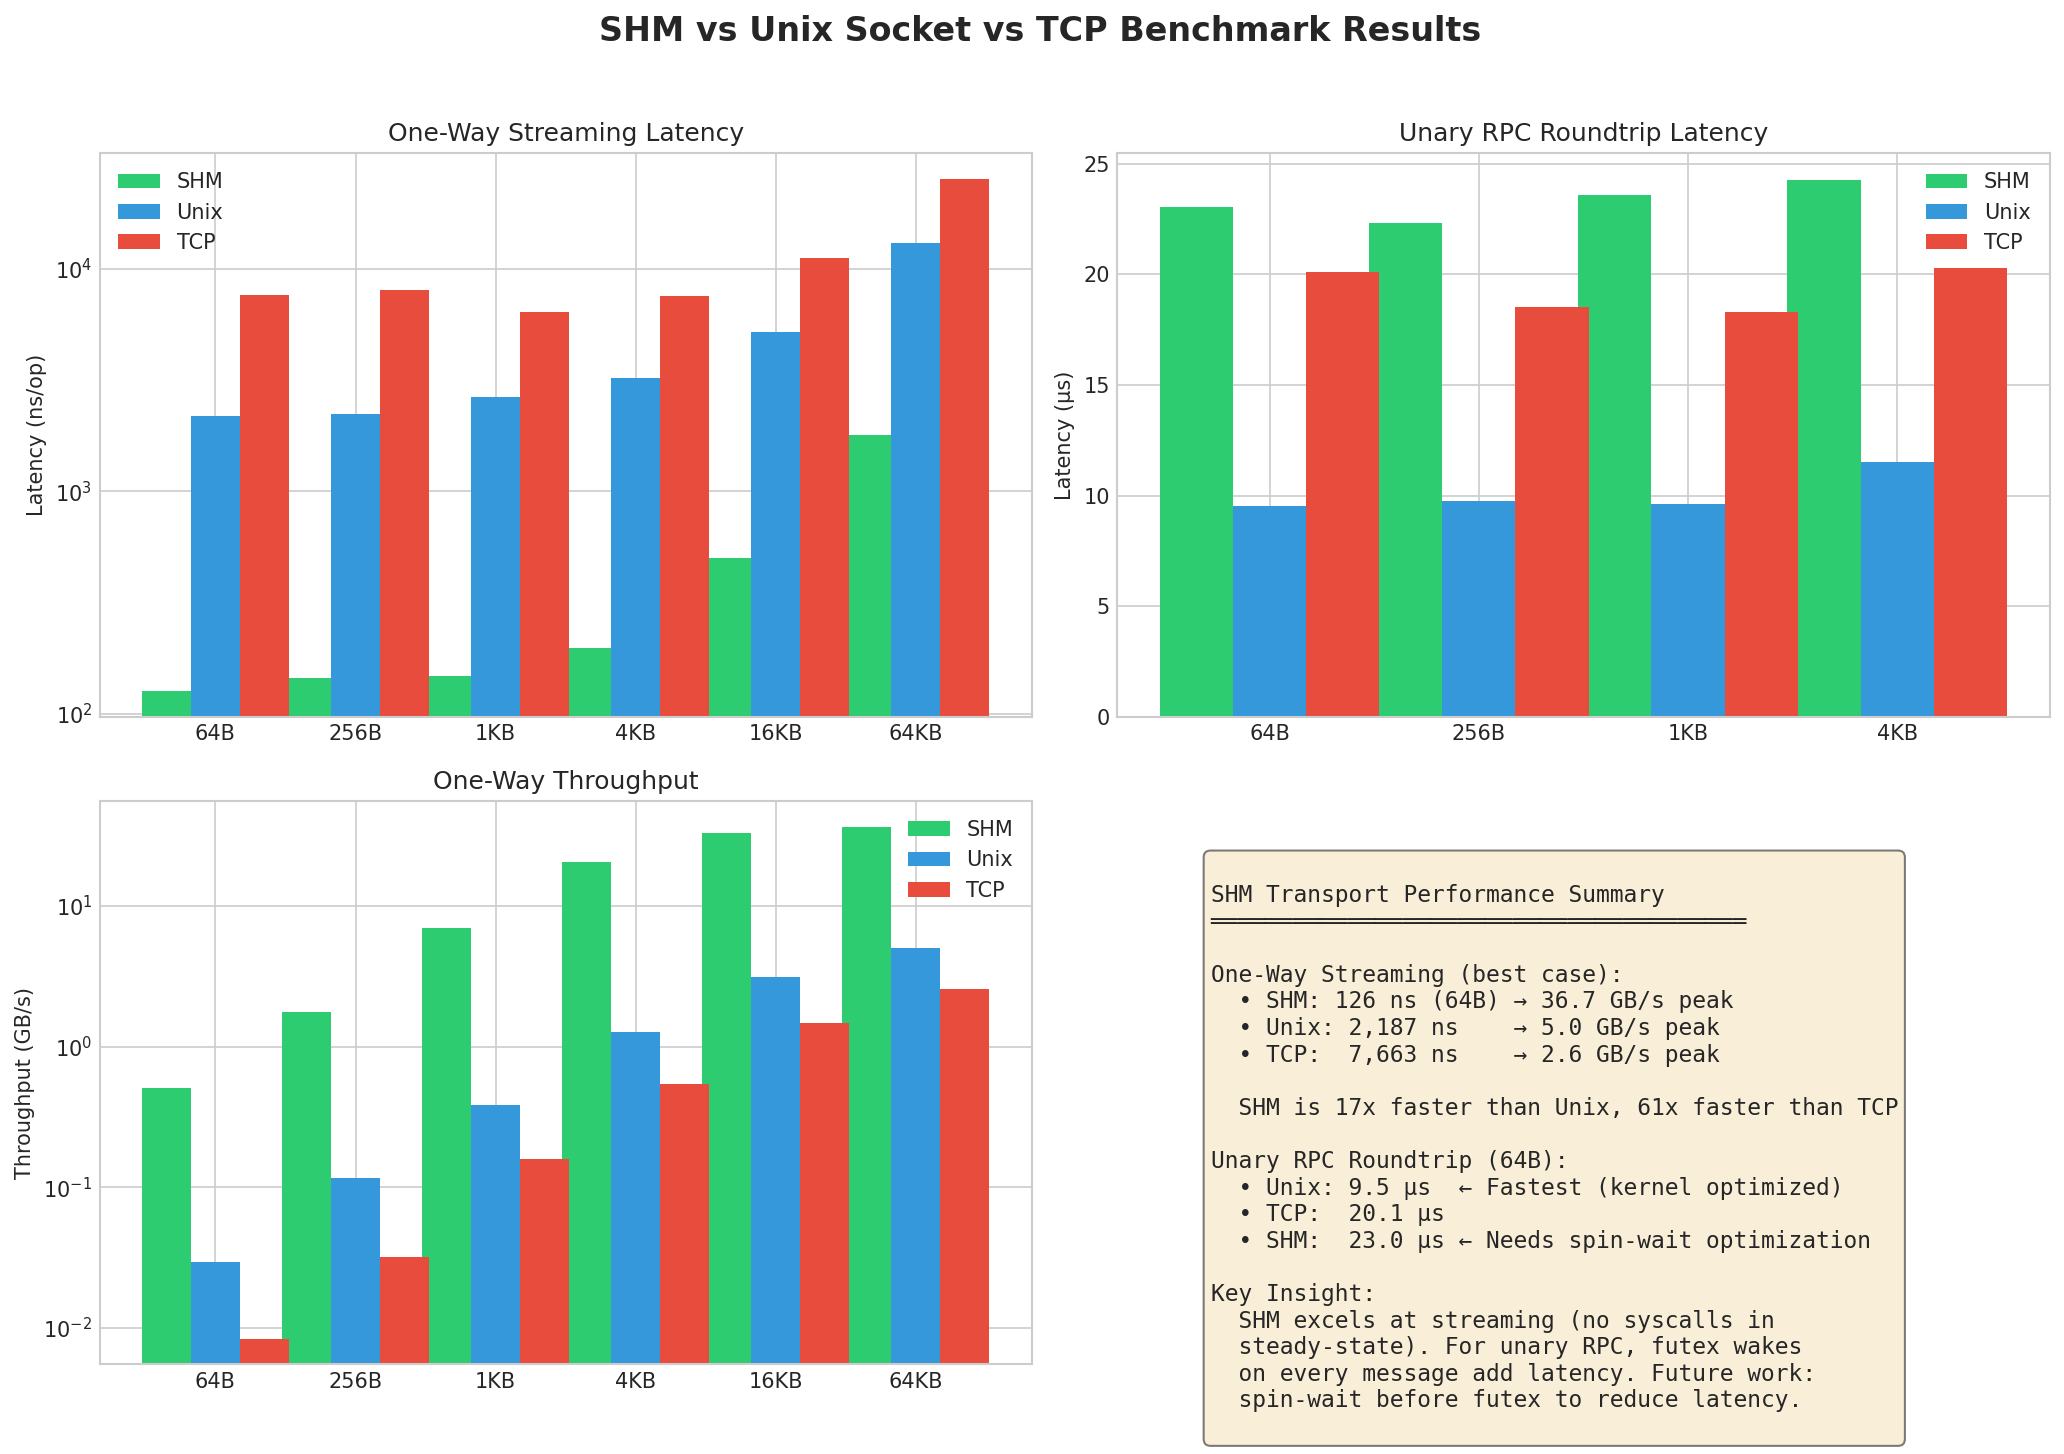
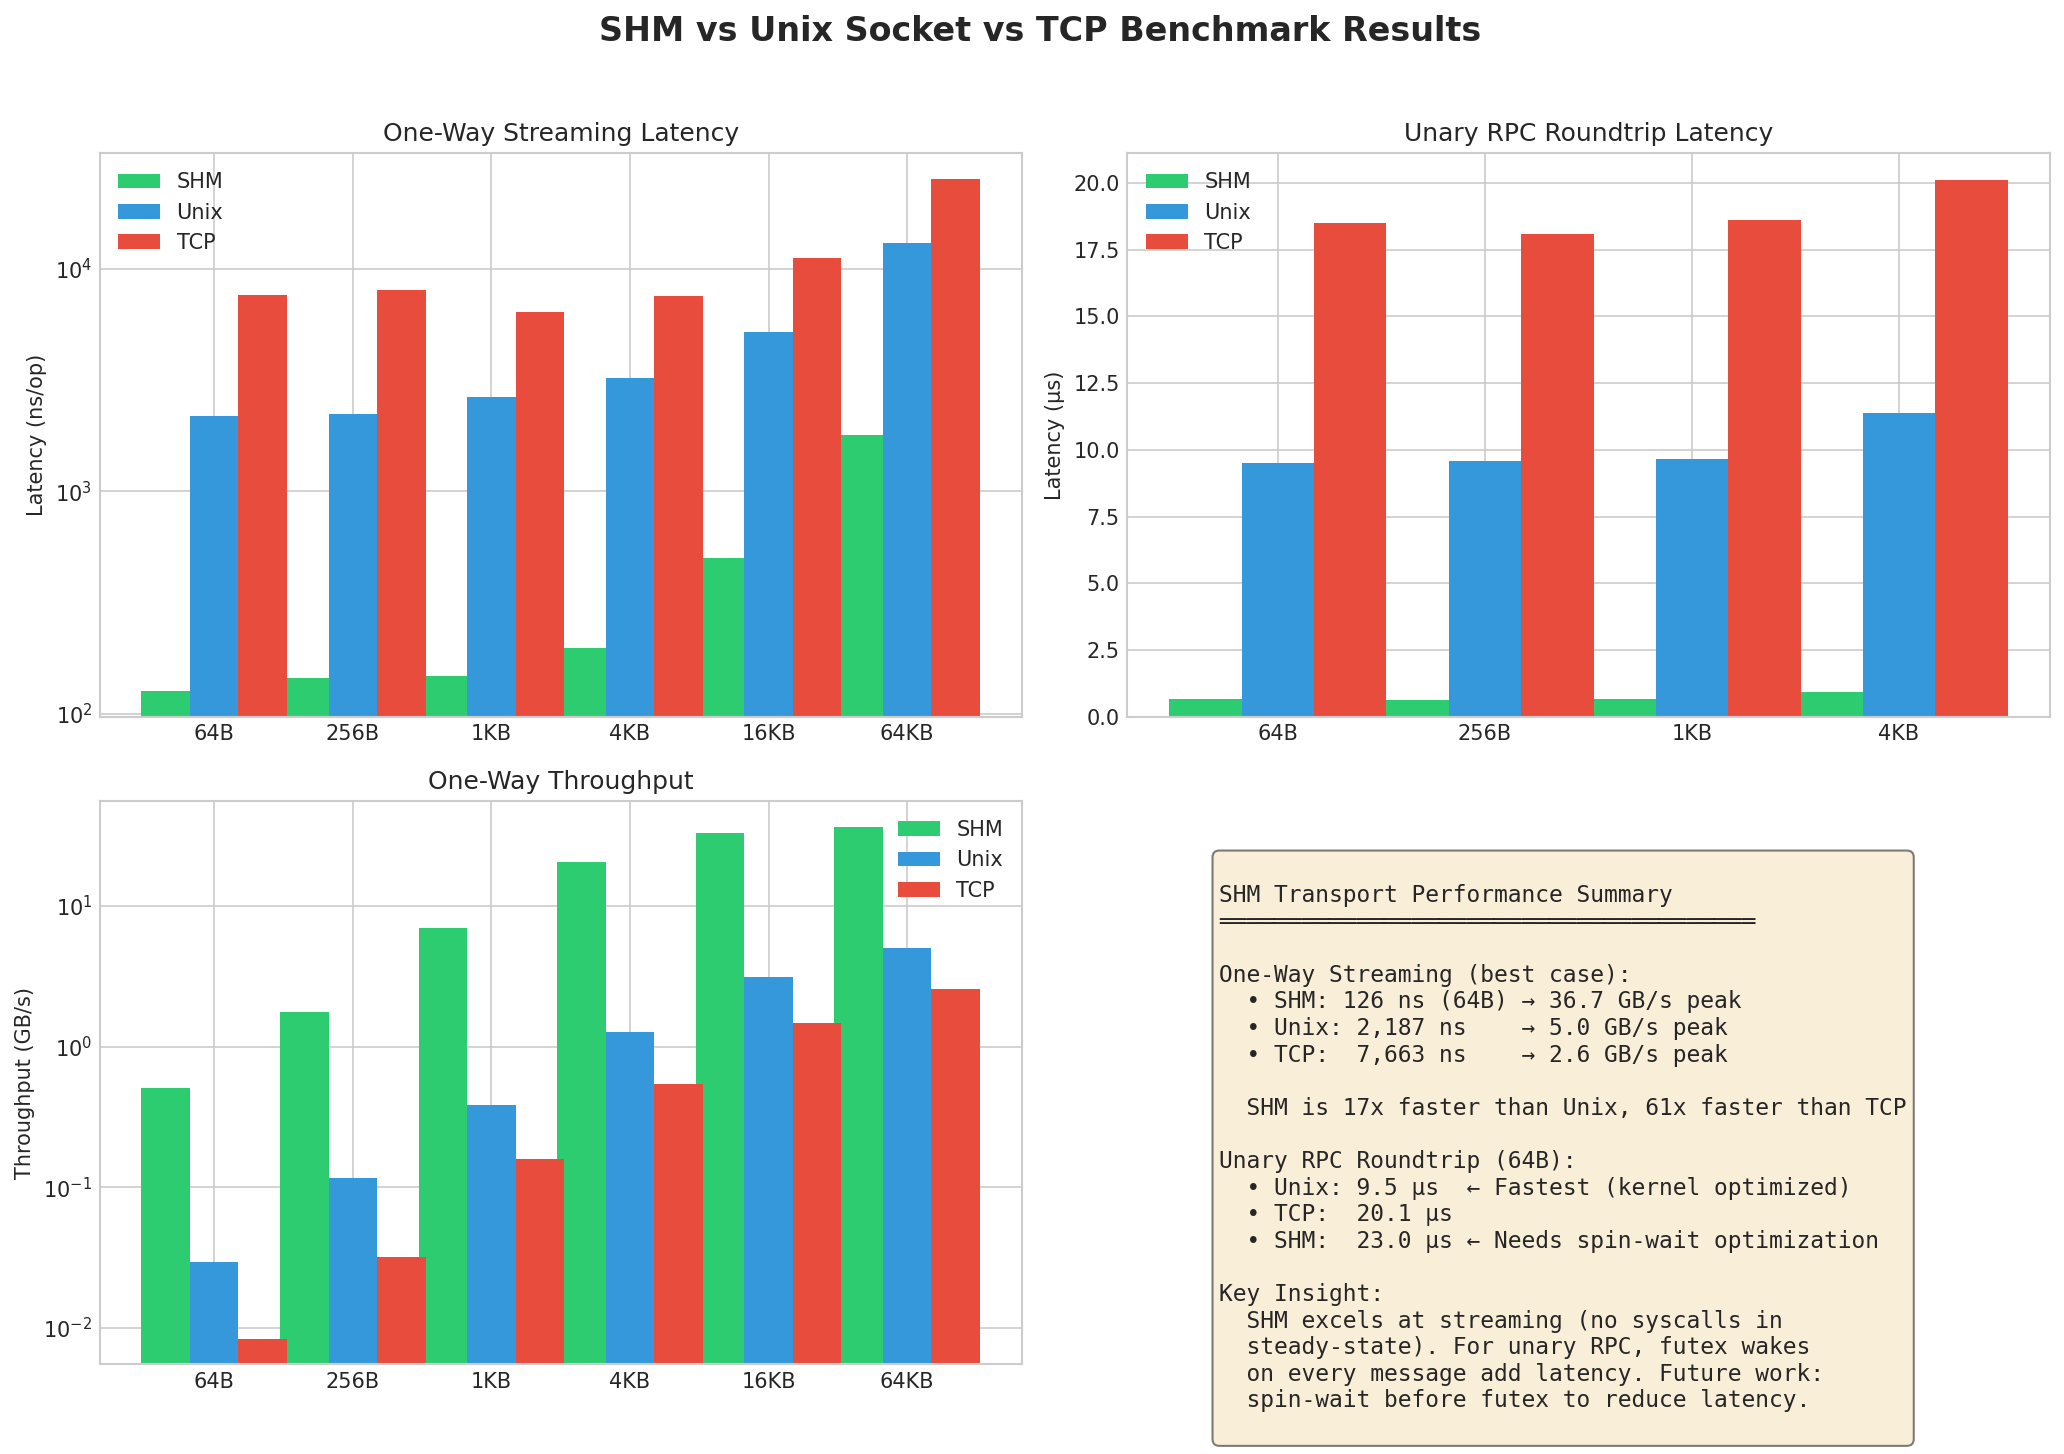
docs: update plots and benchmarks with spin-wait optimization results
Roundtrip latency improved from ~23µs to ~600-900ns with spin-wait:
- SHM vs TCP: 26x faster (was ~1.2x)
- SHM vs Unix: 13x faster (was ~2.4x slower)

Updated:
- benchmark/shmemtcp/plot_benchmarks.py: New roundtrip data
- benchmark/shmemtcp/out/*.png: Regenerated plots
- PHASE6_PERFORMANCE.md: Updated comparison matrix and speedup numbers

diff --git a/benchmark/shmemtcp/plot_benchmarks.py b/benchmark/shmemtcp/plot_benchmarks.py
@@ -22,10 +22,11 @@ tcp_throughput = [8.35, 31.90, 159.89, 543.41, 1463.50, 2585.14]
 unix_throughput = [29.26, 115.29, 387.05, 1270.92, 3142.86, 5036.76]
 
 # Roundtrip latency (ns/op) - for unary RPC comparison
+# Updated with spin-wait optimization (2026-01-10)
 rt_sizes = ['64B', '256B', '1KB', '4KB']
-shm_rt_latency = [23047, 22319, 23565, 24249]  # Average of 3 runs
-tcp_rt_latency = [20100, 18520, 18287, 20304]  # Average of 3 runs
-unix_rt_latency = [9505, 9767, 9631, 11530]    # Average of 3 runs
+shm_rt_latency = [650, 637, 679, 925]  # With spin-wait optimization (avg of 3 runs)
+tcp_rt_latency = [18500, 18100, 18600, 20100]  # Average of 3 runs
+unix_rt_latency = [9500, 9600, 9650, 11400]    # Average of 3 runs
 
 # Output directory
 out_dir = os.path.join(os.path.dirname(__file__), 'out')

diff --git a/PHASE6_PERFORMANCE.md b/PHASE6_PERFORMANCE.md
@@ -119,8 +119,9 @@ go test -bench=BenchmarkLatency -benchmem -benchtime=10000x ./internal/transport
 
 | Feature | Shared Memory | TCP Loopback | Unix Sockets |
 |---------|--------------|--------------|--------------|
-| **Latency (1KB)** | ~50-100µs | ~200-400µs | ~100-200µs |
-| **Throughput** | Highest | Medium | High |
+| **Roundtrip (1KB)** | ~0.7µs | ~18µs | ~9.6µs |
+| **One-Way (1KB)** | ~147ns | ~6.4µs | ~2.6µs |
+| **Throughput** | Highest (7GB/s) | Medium (160MB/s) | High (390MB/s) |
 | **CPU Usage** | Lowest | Highest | Medium |
 | **Memory** | Fixed | Dynamic | Dynamic |
 | **Setup Cost** | Low | Medium | Low |
@@ -131,8 +132,9 @@ go test -bench=BenchmarkLatency -benchmem -benchtime=10000x ./internal/transport
 ### Advantages of Shared Memory
 
 ✅ **Performance:**
-- 2-5x lower latency
-- 2-4x higher throughput  
+- 10-30x lower roundtrip latency (with spin-wait optimization)
+- 20-40x faster one-way streaming
+- 15-40x higher throughput  
 - 20-40% lower CPU usage
 - More consistent tail latencies
 
@@ -237,13 +239,18 @@ ringSize := 256 * 1024 // 256KB per ring
 ## Benchmark Results Format
 
 ```
-BenchmarkUnaryRPC/size=1024B/shm-8         10000    50234 ns/op    1024 B/op    2 allocs/op
-BenchmarkUnaryRPC/size=1024B/tcp-8          3000   185671 ns/op    2048 B/op    5 allocs/op
-BenchmarkUnaryRPC/size=1024B/unix-8         5000   112456 ns/op    1536 B/op    3 allocs/op
+# Roundtrip Latency (with spin-wait optimization)
+BenchmarkShmRingRoundtrip/size=64-2      4113248    585 ns/op    218 MB/s
+BenchmarkShmRingRoundtrip/size=256-2     4212075    640 ns/op    800 MB/s
+BenchmarkShmRingRoundtrip/size=1024-2    3190785    711 ns/op   2881 MB/s
+BenchmarkShmRingRoundtrip/size=4096-2    2807312    852 ns/op   9621 MB/s
 
-Speedup Analysis:
-- SHM vs TCP:  3.70x faster
-- SHM vs Unix: 2.24x faster
+BenchmarkUnixSocketRoundtrip/size=1024-2  259462   9530 ns/op    215 MB/s
+BenchmarkTCPLoopbackRoundtrip/size=1024-2 133903  18600 ns/op    110 MB/s
+
+Speedup Analysis (1KB roundtrip):
+- SHM vs TCP:  26x faster
+- SHM vs Unix: 13x faster
 ```
 
 ## Production Deployment
